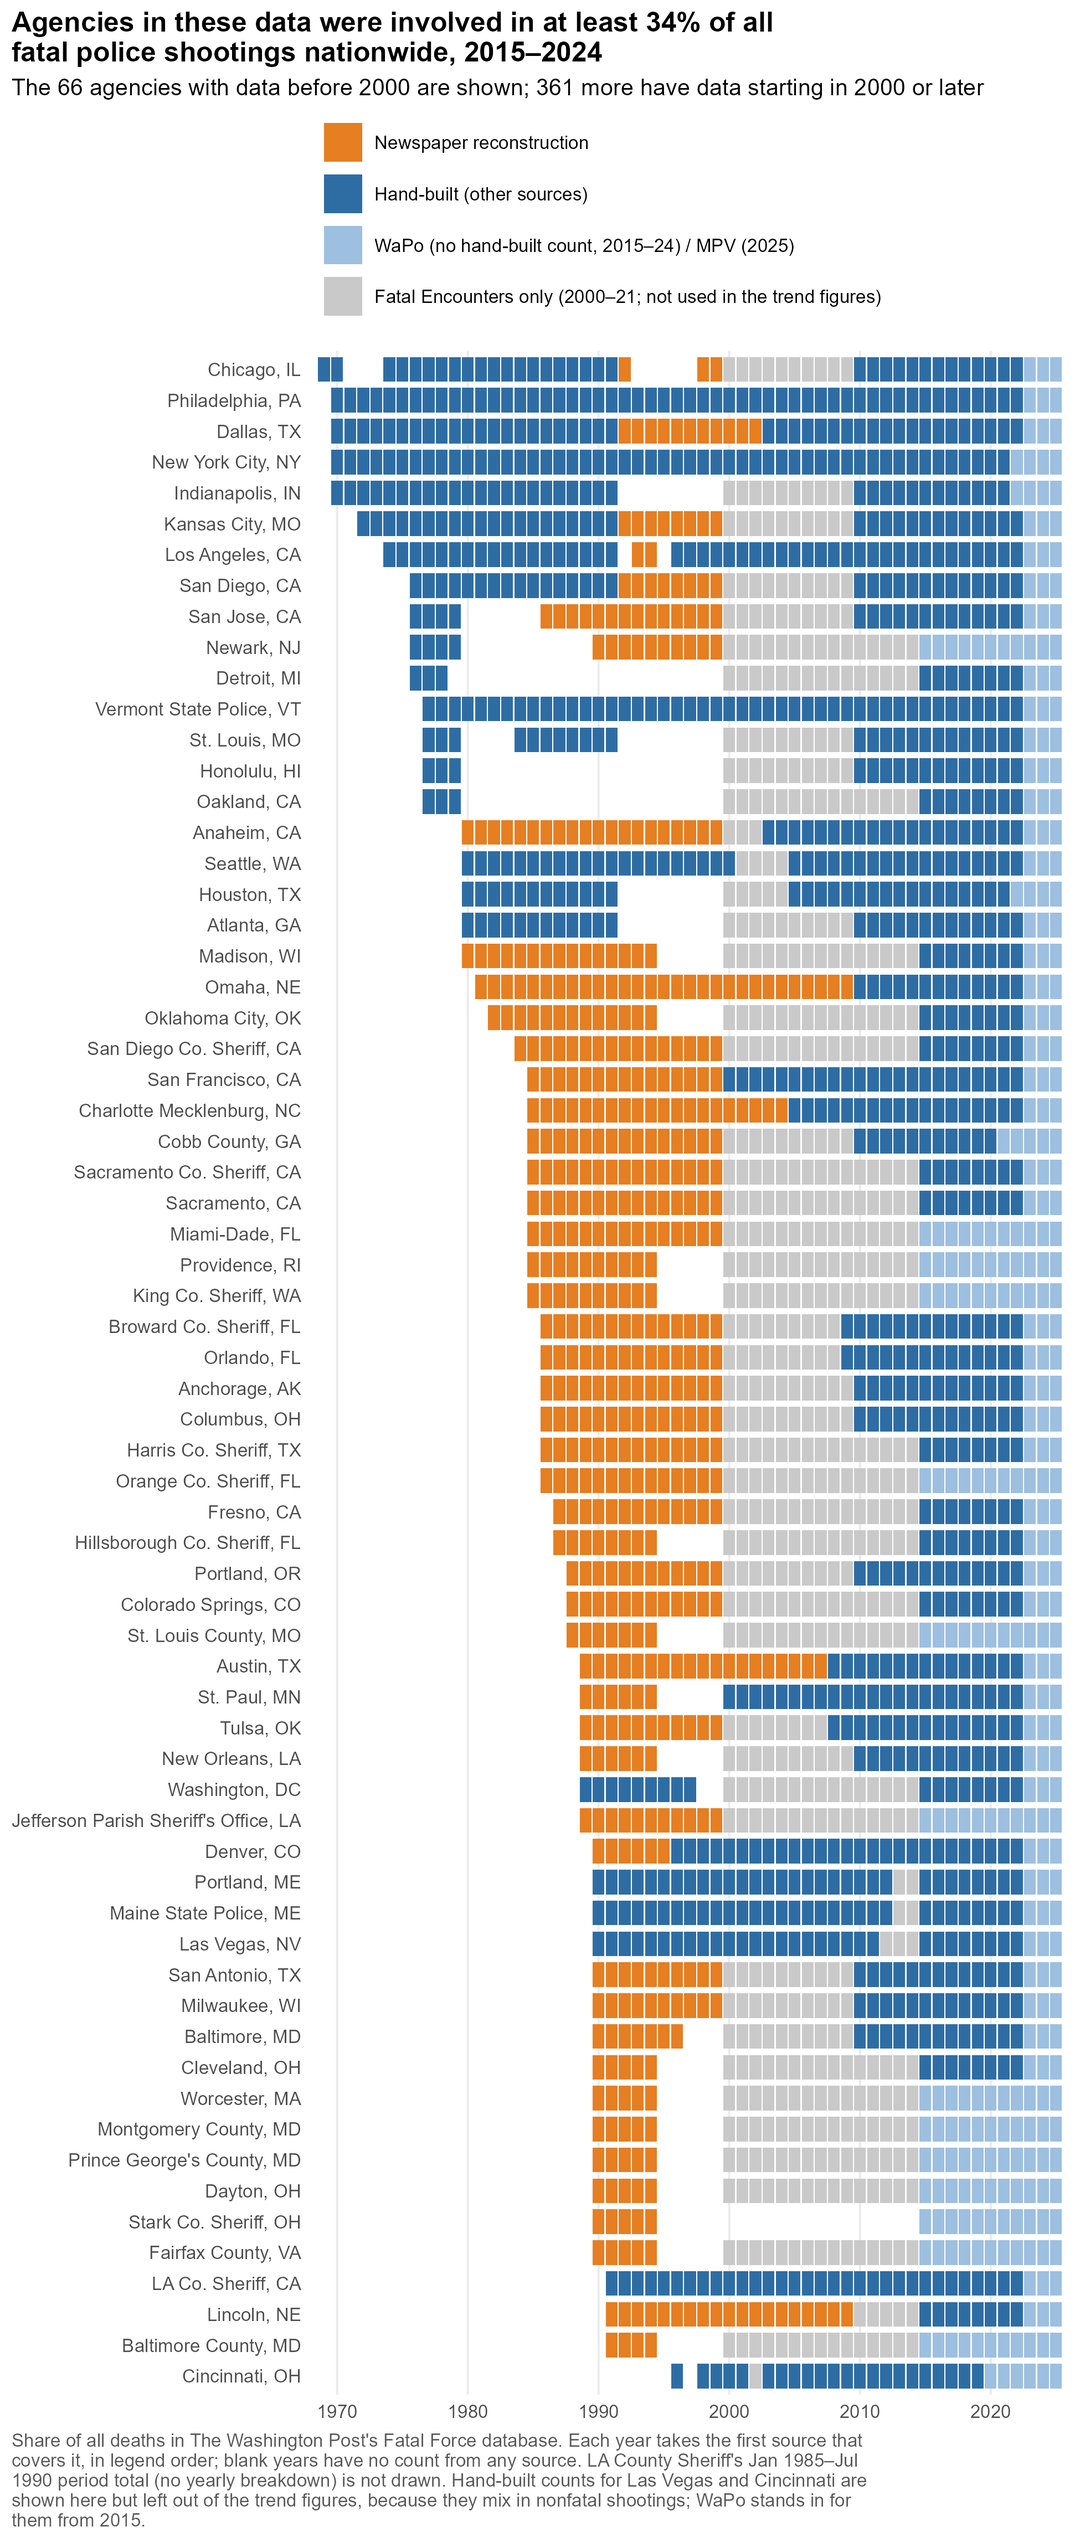
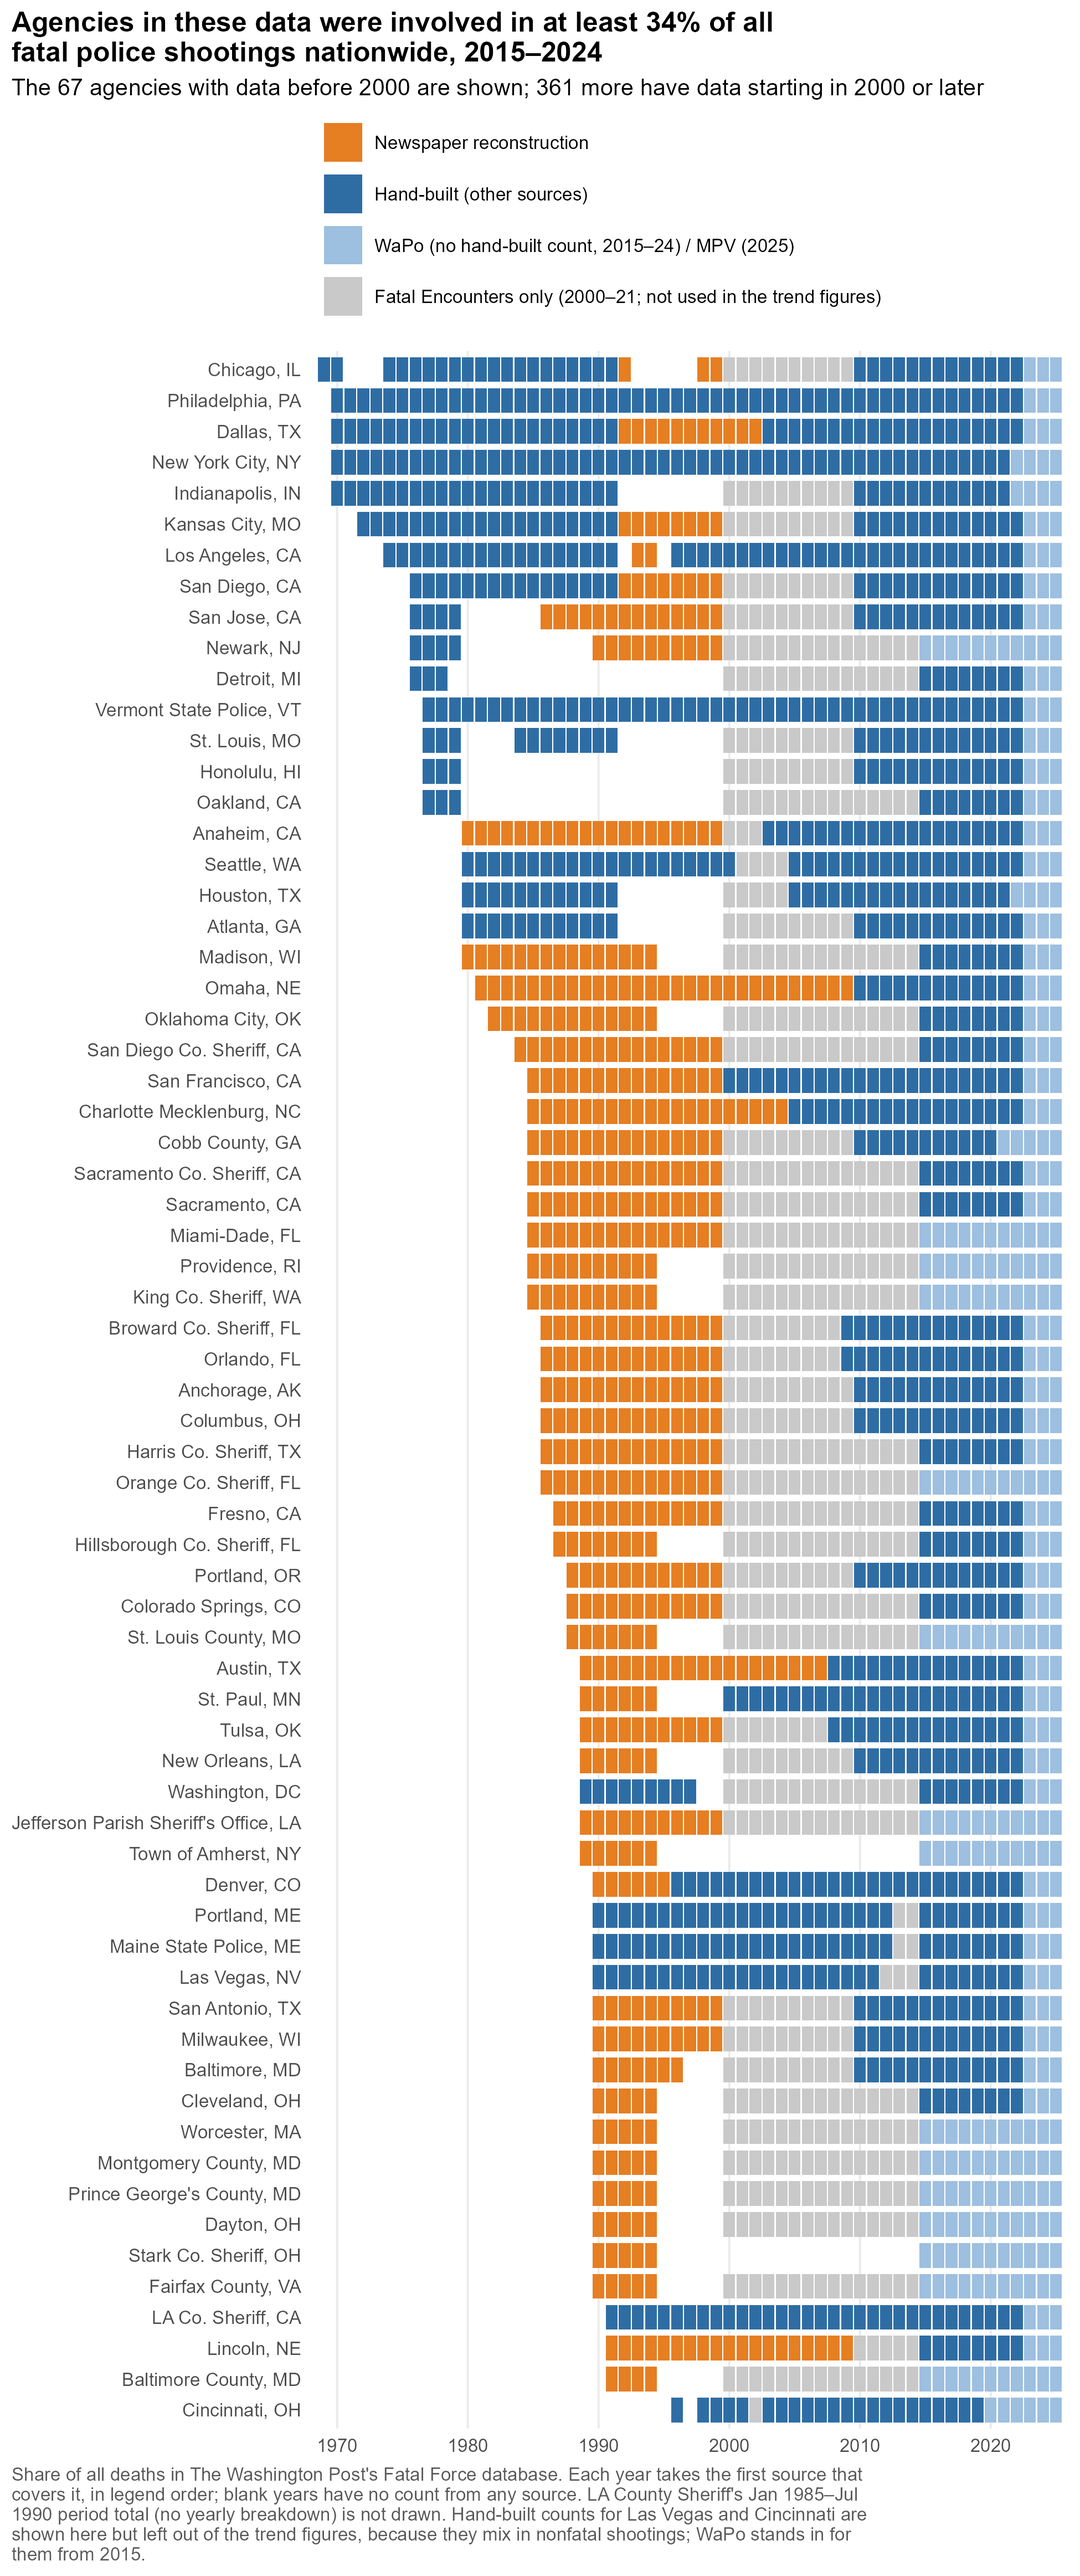
Add Amherst Town PD (NY) 1989-94 to n_nix (Buffalo News reconstruction) (#66)
Sampled agency (Northeast 100-250k). New slug amherst_ny (NY01451).
1989-94 = 0 in every year (SHR 0 in 1991-94; 1989-90 not filed), rebuilt
from The Buffalo News (in NewsBank from Jan 1989). Four channels gave 159
leads and no fatal shooting by Amherst officers; the paper did report the
department's nonfatal shootings (two bank-robbery suspects in 1990, a
theft suspect in 1991). Left out: a 1991 death in custody.

Recall for Amherst can't be measured: FE, WaPo, MPV and SHR list no
Amherst police killings in any year. Paper coverage check instead: 11 of
11 FE Erie County police gunshot deaths, 2003-12.

With zeros in both eras, Amherst joins Stark County SO among the all-zero
long-panel agencies set aside from the ratio. Headline unchanged: 58
agencies, era ratio 0.758 (0.554-1.037); 13 fewer / 20 more / 25 same.

diff --git a/README.md b/README.md
@@ -28,7 +28,7 @@ Are police killing more people now than in decades past? National data can't ans
 
 **How far back it reaches.** Before 2000, the solid line rests on only 4–60 departments, mostly large cities. It describes big cities, not the country. The [coverage figure](#coverage-figure) below shows exactly which agency-years each source covers.
 
-**What it shows.** The headline compares one fixed set of agencies: the 58 with at least five years of data both before 1995 and since 2015, shown as the dashed line. In those agencies, fatal police shootings since 2015 run 24% below their 1970–1994 level (ratio 0.76, 95% CI 0.55–1.04). One more agency, the Stark County (OH) Sheriff's Office, has enough years in both eras but no deaths in either, so it adds no information to the ratio and is set aside.
+**What it shows.** The headline compares one fixed set of agencies: the 58 with at least five years of data both before 1995 and since 2015, shown as the dashed line. In those agencies, fatal police shootings since 2015 run 24% below their 1970–1994 level (ratio 0.76, 95% CI 0.55–1.04). Two more agencies, the Stark County (OH) Sheriff's Office and the Amherst (NY) Police Department, have enough years in both eras but no deaths in either, so they add no information to the ratio and are set aside.
 
 ![Then vs. now in 58 long-running agencies](output/figures/then_vs_now.png)
 
@@ -44,7 +44,7 @@ The reconstructions are floors, because a search can miss deaths but can't inven
 
 ![Agencies with data before 2000](output/figures/coverage_tiles.png)
 
-**Reach.** The 66 agencies above carry the long-run record back before 2000. Each year shows the first source that covers it: newspaper reconstruction (orange), other hand-built sources (dark blue), WaPo or MPV where there is no hand-built count (light blue), and Fatal Encounters alone (grey; FE is not used in the trend figures). Blank years are true gaps. Overall, the hand-built agencies were involved in at least 33% of everyone shot and killed by police in WaPo's data, 2015–2024 ("at least" because deaths are matched through each WaPo agency's primary ORI, so some matches are missed).
+**Reach.** The 67 agencies above carry the long-run record back before 2000. Each year shows the first source that covers it: newspaper reconstruction (orange), other hand-built sources (dark blue), WaPo or MPV where there is no hand-built count (light blue), and Fatal Encounters alone (grey; FE is not used in the trend figures). Blank years are true gaps. Overall, the hand-built agencies were involved in at least 33% of everyone shot and killed by police in WaPo's data, 2015–2024 ("at least" because deaths are matched through each WaPo agency's primary ORI, so some matches are missed).
 
 Numbers in this section come from [`trend_summary.csv`](output/tables/trend_summary.csv), [`trend_index.csv`](output/tables/trend_index.csv), [`then_vs_now.csv`](output/tables/then_vs_now.csv), [`era_ratio_sensitivity.csv`](output/tables/era_ratio_sensitivity.csv), and [`coverage_share.csv`](output/tables/coverage_share.csv), all written by [`scripts/07_figures_trends.R`](scripts/07_figures_trends.R).
 
@@ -83,7 +83,7 @@ The four largest local departments show how the series line up, and SHR's false 
 | 1969 | 1 (Chicago) | — | — | — | — |
 | 1970s | 4–15 | — | — | — | 1,760–1,929 (1976+) |
 | 1980s | 14–42 | — | — | — | 1,695–1,960 |
-| 1990s | 40–62 | — | — | — | 1,459–1,818 |
+| 1990s | 40–63 | — | — | — | 1,459–1,818 |
 | 2000s | 114–172 | — | 2,967 | — | 1,524–1,721 |
 | 2010s | 361–369 | 3,647 (2015+) | 2,967 | 4,622 (2013+) | 1,584–1,841 |
 | 2020s | 225–368 (through 2022) | 3,647 (through 2024) | 2,967 (through 2021) | 4,622 (through 2025) | 1,864–2,098 (through 2024) |
@@ -210,6 +210,7 @@ The method, a note on every agency, and the checks against each paper's own coun
 | St. Louis County PD (MO) | *St. Louis Post-Dispatch* | 1988–1994 | 2 | 2 |
 | Worcester PD (MA) | *Worcester Telegram & Gazette* | 1990–1994 | 0 | 0 |
 | Providence PD (RI) | *Providence Journal* | 1985–1994 | 4 | 3 |
+| Amherst Town PD (NY) | *The Buffalo News* | 1989–1994 | 0 | 0 |
 | LA County Sheriff (period total) | *Daily News of Los Angeles* (Oct. 7, 1990 study) | Jan 1985 – Jul 1990 | 75 | 42 (1985–90) |
 
 

diff --git a/data/historical/README.md b/data/historical/README.md
@@ -69,4 +69,5 @@ The SHR column is the FBI's count of people killed by the agency's officers with
 | St. Louis County PD (MO) | *St. Louis Post-Dispatch* | 1988–1994 | 2 | 2 | The *Post-Dispatch* is full text in NewsBank from January 1988. Rebuilt case by case; a 1989 story on the department's own firearms statistics confirms one fatal shooting in 1988. SHR's total matches, but not its years: its 1990 death is a suspect killed by FBI agents with county SWAT assisting, and it misses a 1993 county officer's killing. Leaves out a 1992 recruit's off-duty accidental shooting of his roommate. Recall check (2001–05): all 7 Fatal Encounters deaths that were not suicides |
 | Worcester PD (MA) | *Worcester Telegram & Gazette* | 1990–1994 | 0 | 0 | The *Telegram & Gazette* is in NewsBank from January 16, 1989. No fatal shootings by Worcester officers found in 1989–94, and a sweep of the paper through April 2021 found none either, matching Fatal Encounters, WaPo and MPV, whose first Worcester PD killing is in 2021. Leaves out a 1993 death after a restraint during arrest (custody deaths are excluded). Recall for Worcester PD itself can't be measured, so the paper was checked on other agencies instead: it reported all 6 Fatal Encounters shooting deaths by other police in Worcester County, 2002–12. SHR files 0 in 1992–94 and nothing for 1990–91 |
 | Providence PD (RI) | *Providence Journal* | 1985–1994 | 4 | 3 | The *Journal* is full text in NewsBank from 1982. Rebuilt case by case: Napolitano (1985), Stockwell (1993), and two in 1994, Corey Fields (killed after he shot Patrolman Steven Shaw) and Favaloro (a SWAT shootout in a joint drug sting). A 1993 *Journal* story listing that year's three fatal police shootings in Rhode Island confirms one in Providence. Matches SHR in 9 of 10 years; SHR misses Stockwell. SHR files the department as RI00409, while WaPo and this panel use RI00400, so the panel's SHR column is blank for Providence. Recall check (2000–14): all 4 Fatal Encounters gunshot deaths |
+| Amherst Town PD (NY) | *The Buffalo News* | 1989–1994 | 0 | 0 | The *Buffalo News* is in NewsBank from January 1989. No fatal shootings by Amherst officers found, though the paper reported the department's nonfatal shootings (two bank-robbery suspects wounded in 1990, a theft suspect in 1991). Leaves out a 1991 death in custody. Recall can't be measured: Fatal Encounters, WaPo, MPV and SHR list no Amherst police killings in any year, so the agency has no deaths in either era and is set aside from the ratio. The paper was checked on other agencies instead: it reported all 11 Fatal Encounters police shooting deaths in Erie County, 2003–12. SHR files 0 in 1991–94 and nothing for 1989–90 |
 | LA County Sheriff (period total) | *Daily News of Los Angeles* | Jan 1985 – Jul 1990 | 75 | 42 (1985–90) | Not yearly counts: a 1990 *Daily News* study of all 202 on-duty deputy shootings found 75 deaths. It enters only the then-vs-now comparison, with 5.57 years of exposure. See `period_totals.csv` |
